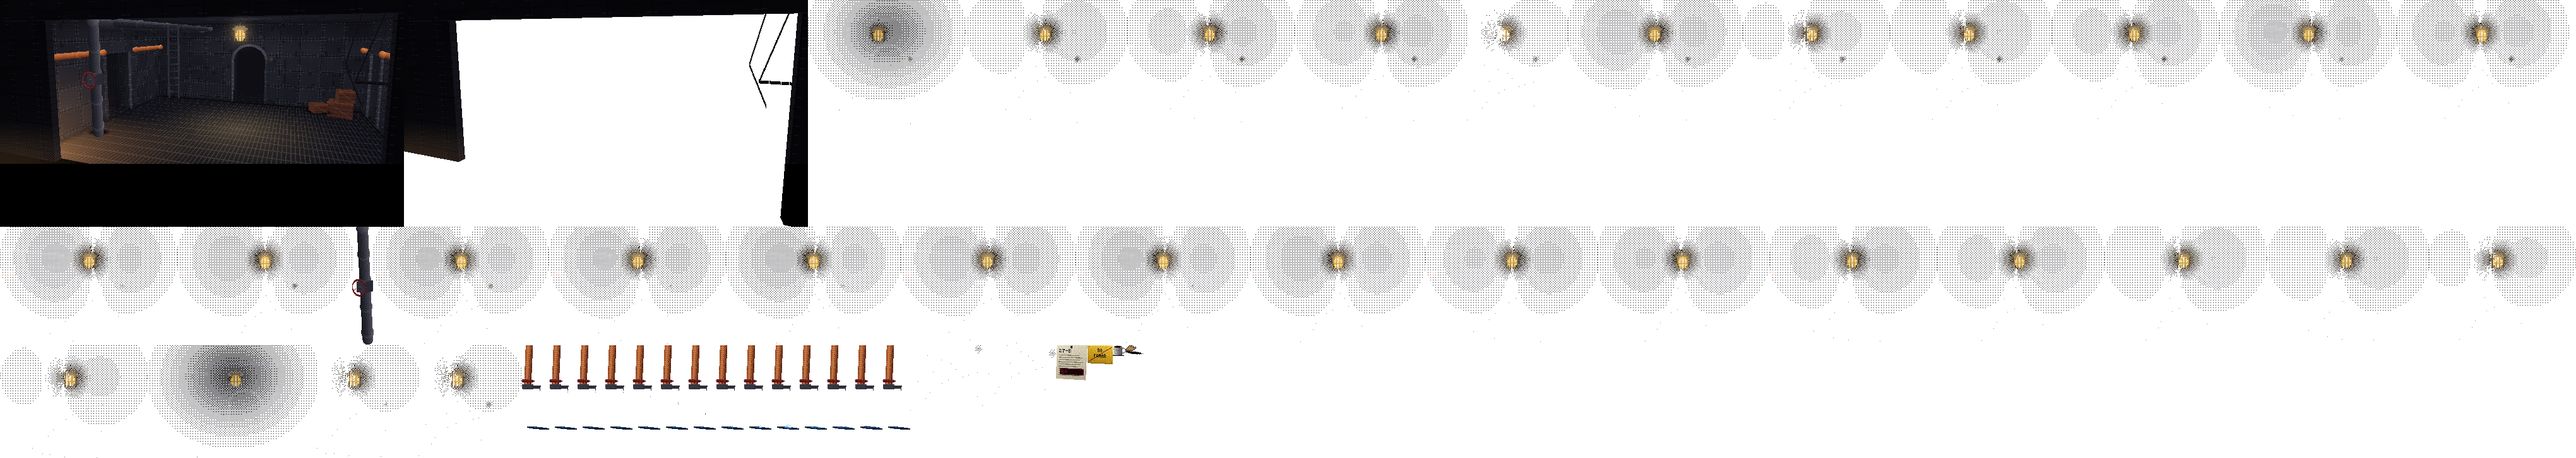
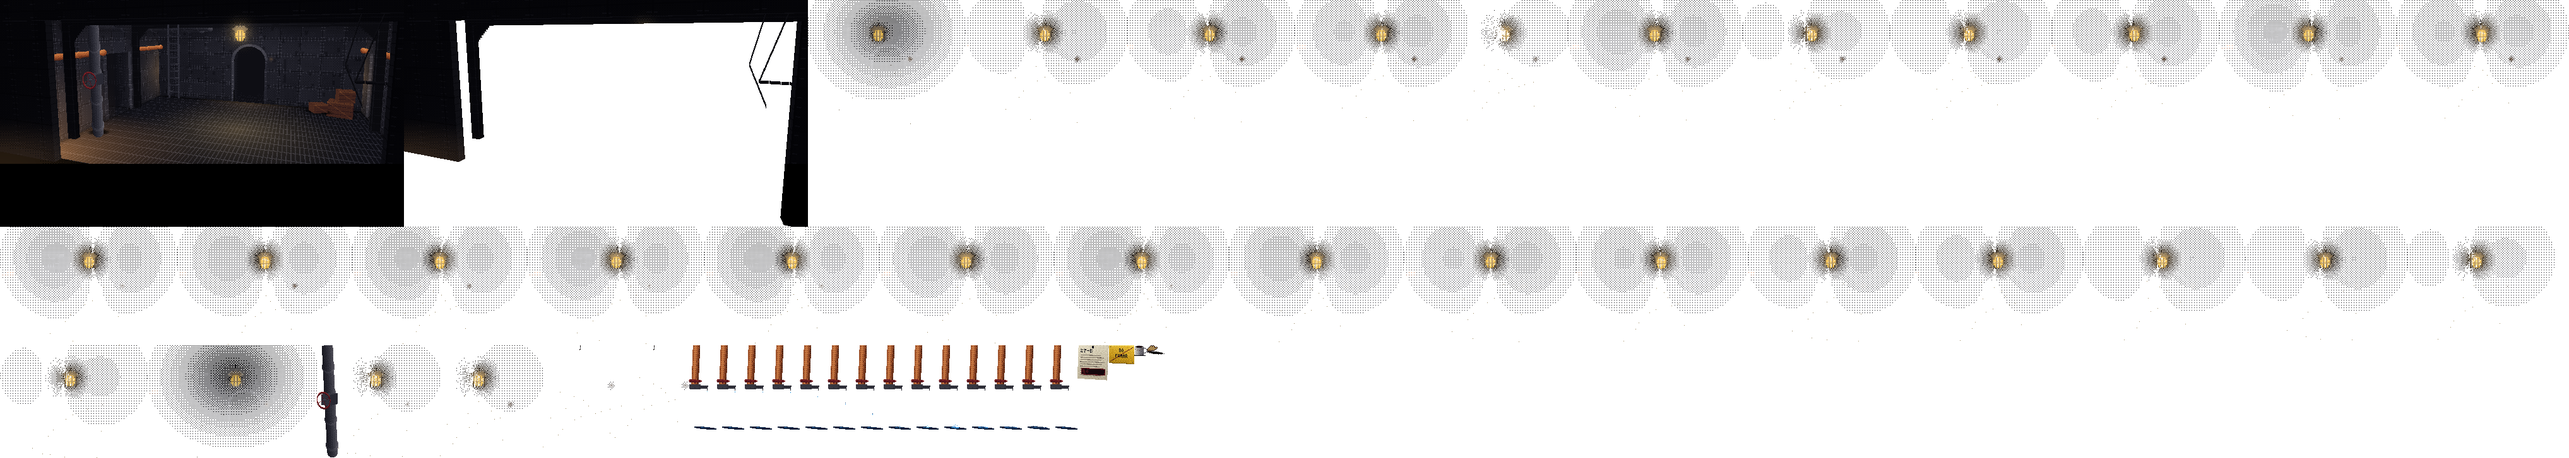
Ferro-9: costelles i el reflex de l'arc al conducte de servei, el terra del museu assentat i el personatge llegible a la cel·la 9
- El conducte de servei: dues costelles de galeria de ferro fosc (una molt a prop, en silueta, i una entre els dos
  passadissos) i la claror de l'arc del fons que llisca per les parets dels costats i pel terra.
- El museu: les juntes de les lloses marcades i cada llosa d'un to, una catifa granat sota el banc, i les ombres que
  els focus projecten del banc, la vitrina, el faristol i el sòcol.
- La cel·la 9 de La Gavina: més llum ambient sobre els personatges i un contorn de llum freda (characterOutline).
- El pipeline: Escena.silueta i characterOutline.

diff --git a/games/ferro-9/adapters/benne/tools/hd640/rooms/final_museu.py b/games/ferro-9/adapters/benne/tools/hd640/rooms/final_museu.py
@@ -160,12 +160,55 @@ def _terra(s, t, P):
     T = 46.0
     ui, vi = math.floor(x / T), math.floor(z / T)
     fu, fv = x - ui * T, z - vi * T
-    lvl = 3.0 + (hr(ui, vi, 7) - 0.5) * 0.3 + (hr(int(x) // 5, int(z) // 3, 9) - 0.5) * 0.1
-    if fu < 1.2 or fv < 1.2:
-        lvl = 1.8
-    elif fu < 2.4 or fv < 2.4:
-        lvl += 0.3
+    # (cada llosa de resina, d'un to una mica diferent, i les juntes ben marcades: el terra s'hi llegeix i els mobles
+    # s'hi assenten)
+    lvl = 3.0 + (hr(ui, vi, 7) - 0.5) * 0.6 + (0.25 if (ui + vi) % 2 else 0) + (hr(int(x) // 5, int(z) // 3, 9) - 0.5) * 0.1
+    if fu < 1.6 or fv < 1.6:
+        lvl = 1.2
+    elif fu < 3.0 or fv < 3.0:
+        lvl += 0.5
     return lvl
+
+
+# els focus del carril (x, y, z al món): d'on surten les ombres projectades dels mobles
+FOCUS = [(sx + OFF, 190.0, ZB - 120) for sx, _ in SPOTS.values()]
+
+
+def ombra_projectada(e, cx, cz, w, ang, h, k=0.42):
+    """L'ombra que un focus del carril (el més proper) projecta d'un moble de `w` d'ample i `h` d'alt, girat `ang`:
+    una falca que surt del peu i s'allarga cap a la banda contrària del focus, esvaïda."""
+    lx, ly, lz = min(FOCUS, key=lambda L: math.hypot(L[0] - cx, L[2] - cz))
+    dx, dz = cx - lx, cz - lz
+    n = math.hypot(dx, dz) or 1.0
+    ln = h * n / (ly - h) * 1.6 + 30                                # (una mica més llarga: es llegeix millor)
+    ux, uz = dx / n, dz / n
+    c, s_ = math.cos(ang), math.sin(ang)
+    hw = w / 2
+    A = (cx - hw * c, 0.25, cz - hw * s_)
+    B = (cx + hw * c, 0.25, cz + hw * s_)
+    e.foscor('ombra', A, B, (B[0] + ux * ln, 0.25, B[2] + uz * ln), (A[0] + ux * ln, 0.25, A[2] + uz * ln),
+             lambda s, t: k * max(0.0, 1 - t / ln) ** 1.3 * min(1.0, s / 10, (w - s) / 10))
+
+
+def catifa(e):
+    """Una catifa granat amb la sanefa, sota el banc i fins davant la vitrina: assenta els mobles al terra."""
+    cx, cz, ang = 185.0, 335.0, 0.32
+    w, d = 320.0, 110.0
+    c, s_ = math.cos(ang), math.sin(ang)
+
+    def P(lx, lz):
+        return (cx + lx * c - lz * s_, 0.3, cz + lx * s_ + lz * c)
+
+    def lvl(s, t, Q):
+        b = min(s, w - s, t, d - t)
+        if b < 4:
+            return 1.4
+        if b < 9:
+            return 3.4 if int(s / 6 + t / 6) % 2 else 2.8
+        if b < 11:
+            return 1.8
+        return 2.4 + (hr(int(s) // 3, int(t) // 3, 5) - 0.5) * 0.4
+    e.quad('catifa', P(-w / 2, d / 2), P(w / 2, d / 2), P(w / 2, -d / 2), P(-w / 2, -d / 2), ramp=pla.VELVET, lvl=lvl)
 
 
 def ombra_peu(e, x, z, rx, rz=None, k=0.55):
@@ -260,6 +303,12 @@ def scene(cv, mira=False, cargol=False):
         x = tx + OFF
         e.claror((x - 90, 0.3, ZB - 2), (x + 90, 0.3, ZB - 2), (x + 90, 0.3, ZB - 150), (x - 90, 0.3, ZB - 150),
                  (255, 214, 160), lambda s, t: 0.28 * max(0.0, 1 - math.hypot((s - 90) / 90, t / 140)))
+    catifa(e)
+    # les ombres que els focus projecten dels mobles (el banc, la vitrina, el faristol i el sòcol)
+    ombra_projectada(e, 165.0, 320.0, 190.0, 0.32, 27.0)
+    ombra_projectada(e, 400.0, 395.0, 70.0, -0.35, 120.0)
+    ombra_projectada(e, 300.0, 445.0, 40.0, -0.5, 90.0, k=0.32)
+    ombra_projectada(e, 330.0, 235.0, 70.0, 0.0, 70.0)
     e.foscor('ombra', (XR - 160, 0.2, ZB), (XR, 0.2, ZB), (XR, 0.2, ZB - 160), (XR - 160, 0.2, ZB - 160),
              lambda s, t: 0.45 * max(0.0, 1 - math.hypot(160 - s, t) / 160))
     e.foscor('ombra', _pw(-120, FLOOR_Y), _pw(W, FLOOR_Y), (W + OFF, 0.3, ZB - 10), (-120 + OFF, 0.3, ZB - 10),

diff --git a/games/ferro-9/adapters/benne/tools/hd640/rooms/fabrica_conducte.py b/games/ferro-9/adapters/benne/tools/hd640/rooms/fabrica_conducte.py
@@ -226,6 +226,16 @@ def escena(cv, estat=frozenset(), lampada=True):
                            ((CW - 0.5, HW, CD), (CW - 0.5, HW, ZN), (CW - 0.5, 0, ZN), (CW - 0.5, 0, CD)),
                            ((0, HW, CD - 0.5), (CW, HW, CD - 0.5), (CW, 0, CD - 0.5), (0, 0, CD - 0.5))):
         e.foscor('racons', P0, P1, P2, P3, lambda s, t: 0.35 * max(0.0, 1 - t / 50) + 0.3 * max(0.0, 1 - (HW - t) / 20))
+    # la claror de l'arc del fons, que llisca per les parets dels costats i pel terra (més com més a prop de l'arc)
+    for P0, P1, P2, P3 in (((0.6, HW, CD - 150), (0.6, HW, CD), (0.6, 0, CD), (0.6, 0, CD - 150)),
+                           ((CW - 0.6, HW, CD), (CW - 0.6, HW, CD - 150), (CW - 0.6, 0, CD - 150), (CW - 0.6, 0, CD))):
+        izq = P0[0] < 1
+        e.claror(P0, P1, P2, P3, (255, 196, 128),
+                 lambda s, t, izq=izq: 0.26 * (s / 150 if izq else 1 - s / 150) ** 2 * max(0.0, 1 - abs(t - 120) / 90))
+    e.claror((x0 - 90, 0.6, CD), (x1 + 90, 0.6, CD), (x1 + 90, 0.6, CD - 120), (x0 - 90, 0.6, CD - 120), (255, 196, 128),
+             lambda s, t: 0.22 * max(0.0, 1 - t / 120) ** 1.5 * max(0.0, 1 - abs(s - (x1 - x0 + 180) / 2) / 130))
+    # una costella de la galeria, entre els dos passadissos: els muntants arran de les parets i la biga del sostre
+    costella(e, 'costella', 205, 2.4)
     # les caixes de recanvis, apilades al racó del fons a la dreta (la paret es trenca)
     for bx, bz, w, d, hh, ang, y0 in CAIXES:
         if y0 == 0:
@@ -296,12 +306,29 @@ def escena(cv, estat=frozenset(), lampada=True):
                 cares={'davant': {'ramp': FOSC, 'lvl': boca},
                        'dreta': {'ramp': FOSC, 'lvl': lambda s, t, P: 3.6 - (1.2 if int(t) % 9 == 0 else 0)},
                        'esquerra': {'ramp': FOSC, 'lvl': lambda s, t, P: 3.2 - (1.2 if int(t) % 9 == 0 else 0)}})
+    # una costella molt a prop (només se'n veuen el muntant de l'esquerra i la biga del sostre), en silueta
+    costella(e, 'primer_pla', 18, 1.6)
     for k, xx in enumerate((CW - 96, CW - 80)):
         e.cable('primer_pla', [(xx, HW - 8, zf - 14), (xx - 10 - k * 8, HW - 50 - k * 14, zf - 16), (xx + 4, HW - 84 + k * 20, zf - 18)],
                 FOSC, 2.4, gruix=2.2)
     e.caixa('primer_pla', -60, CW + 80, HW - 8, HW + 40, zf - 10, zf, FOSC, 1.6,
             cares={'davant': {'ramp': FOSC, 'lvl': boca}, 'sota': {'ramp': FOSC, 'lvl': 3.6}})
+    e.silueta({'primer_pla'}, 0.25, col=(3, 3, 6))
     return e
+
+
+def costella(e, sid, z, lvl):
+    """Una costella de la galeria a la profunditat `z`: dos muntants en I arran de les parets, la biga del sostre i
+    les cartel·les dels cantons, de ferro fosc, amb els reblons."""
+    w, d = 14, 10
+    vora = {'ramp': FOSC, 'lvl': lambda s, t, P: lvl + (1.6 if s < 1.4 else 0) + (1.0 if int(t) % 14 == 7 else 0)}
+    for xa, xb in ((0, w), (CW - w, CW)):
+        e.caixa(sid, xa, xb, 0, HW, z, z + d, FOSC, lvl, cares={'davant': vora, 'esquerra': vora, 'dreta': vora})
+    e.caixa(sid, 0, CW, HW - 12, HW, z, z + d, FOSC, lvl, cares={'davant': vora, 'sota': {'ramp': FOSC, 'lvl': lvl + 0.8}})
+    for xa, sg in ((w, 1), (CW - w, -1)):                          # les cartel·les (triangles als cantons de dalt)
+        for k in range(8):
+            e.caixa(sid, min(xa, xa + sg * (24 - k * 3)), max(xa, xa + sg * (24 - k * 3)), HW - 12 - (k + 1) * 3,
+                    HW - 12 - k * 3, z + 2, z + d - 2, FOSC, lvl)
 
 
 def _lampada(e, swing=0.0):

diff --git a/games/ferro-9/adapters/benne/tools/hd640/rooms/gavina_cella.py b/games/ferro-9/adapters/benne/tools/hd640/rooms/gavina_cella.py
@@ -524,9 +524,11 @@ GEOMETRIA = {
     'regions': [{'id': 'perspectiva', 'active': True, 'scaleEnabled': True, 'scaleWalkSpeed': True,
                  'scaleTop': round(_escala_a(_V_FONS - 2), 3), 'scaleBottom': round(_escala_a(_V_PROP + 2), 3),
                  'points': [(0, _V_FONS - 2), (W - 1, _V_FONS - 2), (W - 1, _V_PROP + 2), (0, _V_PROP + 2)]}],
+    # (la paret del fons és fosca: un fil de llum freda al voltant del personatge perquè s'hi retalli)
+    'characterOutline': {'color': '#a8c4e0', 'alpha': 0.35},
     # la llum de la sala sobre els personatges, en temps d'execució
     'characterLights': {
-        'ambient': '#9aa6b8',                                                           # acer fred
+        'ambient': '#a8b4c6',                                                           # acer fred
         'lights': [
             {'x': _p(_w(325), ZW - 30, HW - 10)[0], 'y': _p(_w(325), ZW - 30, HW - 10)[1], 'radius': 360,
              'color': '#d8f0ff', 'intensity': 0.7},                                     # el fluorescent

diff --git a/games/ferro-9/adapters/benne/tools/hd640/tres_d.py b/games/ferro-9/adapters/benne/tools/hd640/tres_d.py
@@ -500,6 +500,17 @@ class Escena:
             m = 1 - min(0.85, k)
             P[X, Y] = (int(o[0] * m), int(o[1] * m), int(o[2] * m), o[3])
 
+    def silueta(self, sids, k=0.5, col=(8, 6, 10)):
+        """Enfosqueix cap a `col` (factor `k`) tot el que és de `sids`: el primer pla en silueta, a contrallum."""
+        ids = {i for i, sid in enumerate(self.ids) if sid in sids}
+        P, W = self.cv.P, self.cv.w
+        for i, a in enumerate(self.amo):
+            if a in ids:
+                X, Y = i % W, i // W
+                o = P[X, Y]
+                P[X, Y] = (int(o[0] + (col[0] - o[0]) * k), int(o[1] + (col[1] - o[1]) * k),
+                           int(o[2] + (col[2] - o[2]) * k), o[3])
+
     # ── capes ──
     def capa(self, flat, sids=None):
         """Un dibuix pla del mateix sistema que les textures (un decorat, un fotograma: transparent on no hi ha res)

diff --git a/games/ferro-9/adapters/benne/tools/draw_placeholders.py b/games/ferro-9/adapters/benne/tools/draw_placeholders.py
@@ -422,6 +422,11 @@ def draw_designed(dir_: Path, game_dir: Path, design):
         room['characterShadow'] = cs
     else:
         room.pop('characterShadow', None)
+    # El contorn dels personatges (characterOutline del motor): fosc a les sales molt clares, clar a les molt fosques.
+    if design.get('characterOutline'):
+        room['characterOutline'] = dict(design['characterOutline'])
+    else:
+        room.pop('characterOutline', None)
     # Quant aixafa la càmera el terra (floorSquash del motor): les direccions de caminar es trien sobre el terra.
     if design.get('floorSquash'):
         room['floorSquash'] = design['floorSquash']

diff --git a/games/ferro-9/adapters/benne/tools/room_designs.py b/games/ferro-9/adapters/benne/tools/room_designs.py
@@ -1607,7 +1607,8 @@ def _amb_geometria():
                          'walkable': list(geo.get('walkable') or [(0, 250), (639, 250), (639, 258), (0, 258)]),
                          'regions': list(geo.get('regions', [])), 'forats': list(geo.get('forats', [])),
                          'characterShadow': geo.get('characterShadow'), 'floorSquash': geo.get('floorSquash'),
-                         'characterLights': geo.get('characterLights')}
+                         'characterLights': geo.get('characterLights'),
+                         'characterOutline': geo.get('characterOutline')}
 
 
 _amb_geometria()
